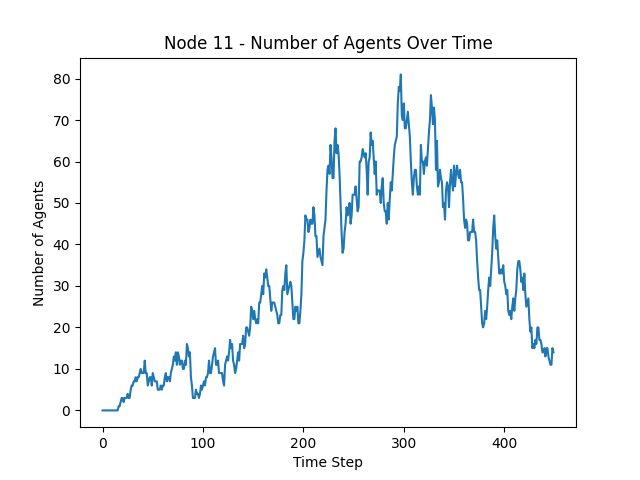
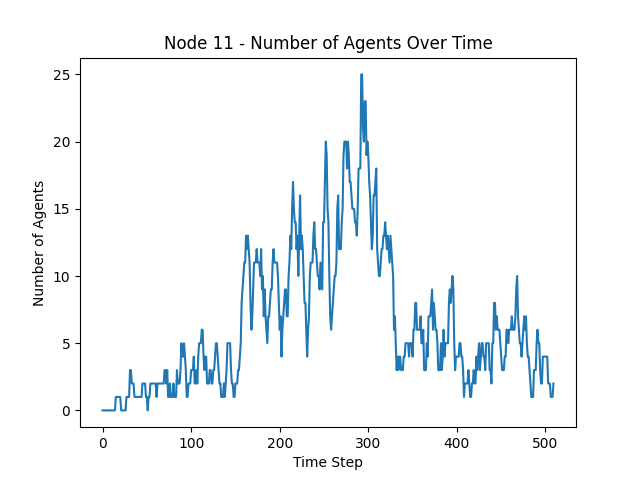
Probabilities Per Hour

diff --git a/AgentLogic.py b/AgentLogic.py
@@ -64,6 +64,150 @@ class Agentlogic:
             18: 1.705818576,  # Stables Male toilet
             19: 2.13227322  # Stables Female toilet
         }
+        if step <= 60: # first hour (9 o'clock - 10 o'clock)
+            Base_Probability_based_on_visitors = {
+            1: 24.64788732,  # Pantry
+            2: 37.32394366,  # Retail Shop
+            4: 11.97183099,  # Palace Inside 1
+            5: 2.816901408,  # Stables Exhibition
+            6: 1.877934272,  # Stables Cafe
+            7: 1.408450704,  # Churchill Exhibition
+            11: 4.460093897,  # Retail Toilet
+            12: 1.408450704,  # Palace Inside 2
+            14: 0,  # Churchill Male Toilet
+            15: 0.234741784,  # Churchill Female Toilet
+            17: 10.79812207,  # West Courtyard
+            18: 0.704225352,  # Stables Male toilet
+            19: 2.34741784  # Stables Female toilet
+        }
+        if 60 < step <=120: # second hour (10 o'clock - 11 o'clock)
+            Base_Probability_based_on_visitors = {
+            1: 23.00506033,  # Pantry
+            2: 34.21564811,  # Retail Shop
+            4: 4.242896069,  # Palace Inside 1
+            5: 8.952899961,  # Stables Exhibition
+            6: 2.296613468,  # Stables Cafe
+            7: 7.940833009,  # Churchill Exhibition
+            11: 7.123394317,  # Retail Toilet
+            12: 3.269754768,  # Palace Inside 2
+            14: 0.350330868,  # Churchill Male Toilet
+            15: 0.622810432,  # Churchill Female Toilet
+            17: 7.473725185,  # West Courtyard
+            18: 0.233553912,  # Stables Male toilet
+            19: 0.272479564  # Stables Female toilet
+        }
+        if 120 < step <=180: # third hour (11 o'clock - 12 o'clock)
+            Base_Probability_based_on_visitors = {
+            1: 20.46746684,  # Pantry
+            2: 26.72141503,  # Retail Shop
+            4: 4.358812382,  # Palace Inside 1
+            5: 7.285744367,  # Stables Exhibition
+            6: 2.295220046,  # Stables Cafe
+            7: 9.854706254,  # Churchill Exhibition
+            11: 6.780374816,  # Retail Toilet
+            12: 12.00252685,  # Palace Inside 2
+            14: 0.463255422,  # Churchill Male Toilet
+            15: 0.758054327,  # Churchill Female Toilet
+            17: 7.369972626,  # West Courtyard
+            18: 0.58959781,  # Stables Male toilet
+            19: 1.052853232  # Stables Female toilet
+        }
+        if 180 < step <=240: # fourth hour (12 o'clock - 1 o'clock)
+            Base_Probability_based_on_visitors = {
+            1: 18.22135573,  # Pantry
+            2: 21.59568086,  # Retail Shop
+            4: 3.269346131,  # Palace Inside 1
+            5: 7.828434313,  # Stables Exhibition
+            6: 2.984403119,  # Stables Cafe
+            7: 16.15176965,  # Churchill Exhibition
+            11: 4.349130174,  # Retail Toilet
+            12: 12.32753449,  # Palace Inside 2
+            14: 1.484703059,  # Churchill Male Toilet
+            15: 1.469706059,  # Churchill Female Toilet
+            17: 9.328134373,  # West Courtyard
+            18: 0.419916017,  # Stables Male toilet
+            19: 0.569886023  # Stables Female toilet
+        }
+        if 240 < step <=300: # fifth hour (1 o'clock - 2 o'clock)
+            Base_Probability_based_on_visitors = {
+            1: 23.73098479,  # Pantry
+            2: 17.91833467,  # Retail Shop
+            4: 3.426741393,  # Palace Inside 1
+            5: 4.803843074,  # Stables Exhibition
+            6: 2.61008807,  # Stables Cafe
+            7: 18.15852682,  # Churchill Exhibition
+            11: 4.883907126,  # Retail Toilet
+            12: 11.52922338,  # Palace Inside 2
+            14: 1.168935148,  # Churchill Male Toilet
+            15: 1.024819856,  # Churchill Female Toilet
+            17: 8.710968775,  # West Courtyard
+            18: 0.64051241,  # Stables Male toilet
+            19: 1.393114492  # Stables Female toilet
+        }
+        if 300 < step <=360: # sixth hour (2 o'clock - 3 o'clock)
+            Base_Probability_based_on_visitors = {
+            1: 16.68226173,  # Pantry
+            2: 28.71273894,  # Retail Shop
+            4: 2.392728245,  # Palace Inside 1
+            5: 5.77462906,  # Stables Exhibition
+            6: 3.515572784,  # Stables Cafe
+            7: 17.52439513,  # Churchill Exhibition
+            11: 2.780376955,  # Retail Toilet
+            12: 9.864991311,  # Palace Inside 2
+            14: 1.042641358,  # Churchill Male Toilet
+            15: 1.082742949,  # Churchill Female Toilet
+            17: 8.795615559,  # West Courtyard
+            18: 0.735195829,  # Stables Male toilet
+            19: 1.096110146  # Stables Female toilet
+        }
+        if 360 < step <=420: # seventh hour (3 o'clock - 4 o'clock)
+            Base_Probability_based_on_visitors = {
+            1: 20.10531355,  # Pantry
+            2: 27.38152226,  # Retail Shop
+            4: 2.808361257,  # Palace Inside 1
+            5: 8.648476145,  # Stables Exhibition
+            6: 4.786979416,  # Stables Cafe
+            7: 11.72809957,  # Churchill Exhibition
+            11: 3.207276209,  # Retail Toilet
+            12: 8.871868518,  # Palace Inside 2
+            14: 0.73400351,  # Churchill Male Toilet
+            15: 0.510611138,  # Churchill Female Toilet
+            17: 9.350566459,  # West Courtyard
+            18: 0.686133716,  # Stables Male toilet
+            19: 1.180788256  # Stables Female toilet
+        }
+        if 420 < step <=480: # eighth hour (4 o'clock - 5 o'clock)
+            Base_Probability_based_on_visitors = {
+            1: 24.6978852,  # Pantry
+            2: 25,  # Retail Shop
+            4: 2.467270896,  # Palace Inside 1
+            5: 4.43101712,  # Stables Exhibition
+            6: 2.970795569,  # Stables Cafe
+            7: 15.25679758,  # Churchill Exhibition
+            11: 6.218529708,  # Retail Toilet
+            12: 8.056394763,  # Palace Inside 2
+            14: 0.83081571,  # Churchill Male Toilet
+            15: 0.704934542,  # Churchill Female Toilet
+            17: 8.358509567,  # West Courtyard
+            18: 0.730110775,  # Stables Male toilet
+            19: 0.27693857  # Stables Female toilet
+        }
+        if 480 < step <= 510: # ninth hour (5 o'clock - 5:30)
+            Base_Probability_based_on_visitors = {
+            1: 24.51923077,  # Pantry
+            2: 2.884615385,  # Retail Shop
+            4: 4.326923077,  # Palace Inside 1
+            5: 0,  # Stables Exhibition
+            6: 13.46153846,  # Stables Cafe
+            7: 0,  # Churchill Exhibition
+            11: 3.365384615,  # Retail Toilet
+            12: 17.30769231,  # Palace Inside 2
+            14: 0,  # Churchill Male Toilet
+            15: 0.961538462,  # Churchill Female Toilet
+            17: 25.96153846,  # West Courtyard
+            18: 1.442307692,  # Stables Male toilet
+            19: 5.769230769  # Stables Female toilet
+        }
         
         visited_nodes = set(agent['visited_count'].keys())
 

diff --git a/Initalise.py b/Initalise.py
@@ -116,22 +116,25 @@ class AgentSimulation:
         return agent_id
 
     def distribute_agents(self,step):
-        if step <= 60:
+        if step <= 60: # first hour (9 o'clock - 10 o'clock)
             agentsacrossthehour = 144
-        if 60 < step <=120:
+        if 60 < step <=120: # second hour (10 o'clock - 11 o'clock)
             agentsacrossthehour = 404
-        if 120 < step <=180:
+        if 120 < step <=180: # third hour (11 o'clock - 12 o'clock)
             agentsacrossthehour = 732
-        if 180 < step <=240:
+        if 180 < step <=240: # fourth hour (12 o'clock - 1 o'clock)
             agentsacrossthehour = 746
-        if 240 < step <=300:
+        if 240 < step <=300: # fifth hour (1 o'clock - 2 o'clock)
             agentsacrossthehour = 852
-        if 300 < step <=360:
+        if 300 < step <=360: # sixth hour (2 o'clock - 3 o'clock)
+            agentsacrossthehour = 892
+        if 360 < step <=420: # seventh hour (3 o'clock - 4 o'clock)
             agentsacrossthehour = 900
-        if 360 < step <=420:
+        if 420 < step <=480: # eighth hour (4 o'clock)
             agentsacrossthehour = 538
-        if 420 < step <=450:
+        if 480 < step <= 510:
             agentsacrossthehour = 166
+
 
         mean_agents_per_step = agentsacrossthehour / 60  # Mean number of agents per step
         std_dev = np.sqrt(mean_agents_per_step)  # Standard deviation
@@ -307,7 +310,7 @@ class AgentSimulation:
 
 if __name__ == "__main__":
     num_agents = 100 #Total avg People per Day 3837  /   100 is testing number
-    num_steps = 450 # 7.5 hours of visiting times starting at 9 ending 3:30
+    num_steps = 510 # 8.5 hours of visiting times starting at 9 ending 5:30
 
     filelocation = FileLocator.decide_fileLocation("InitalisePrint", num_steps)
     if filelocation is None or filelocation == "":
